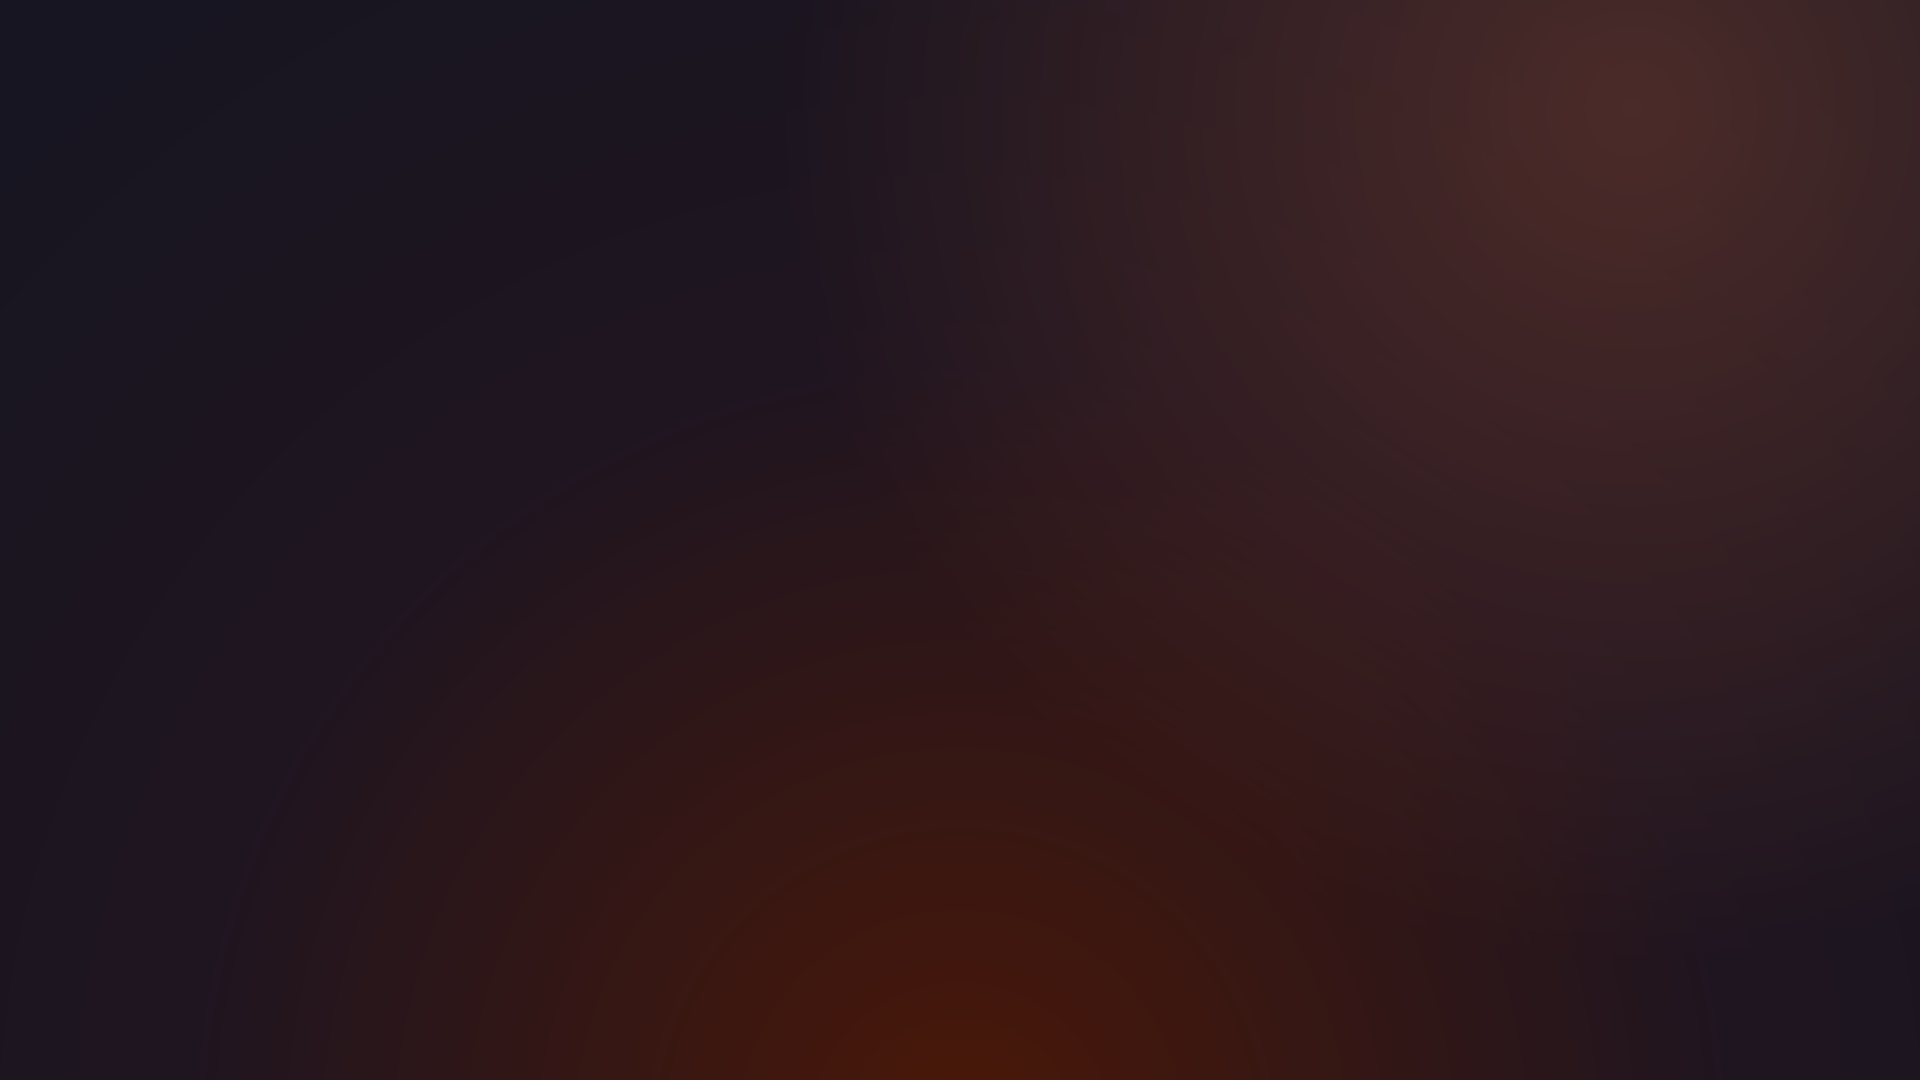
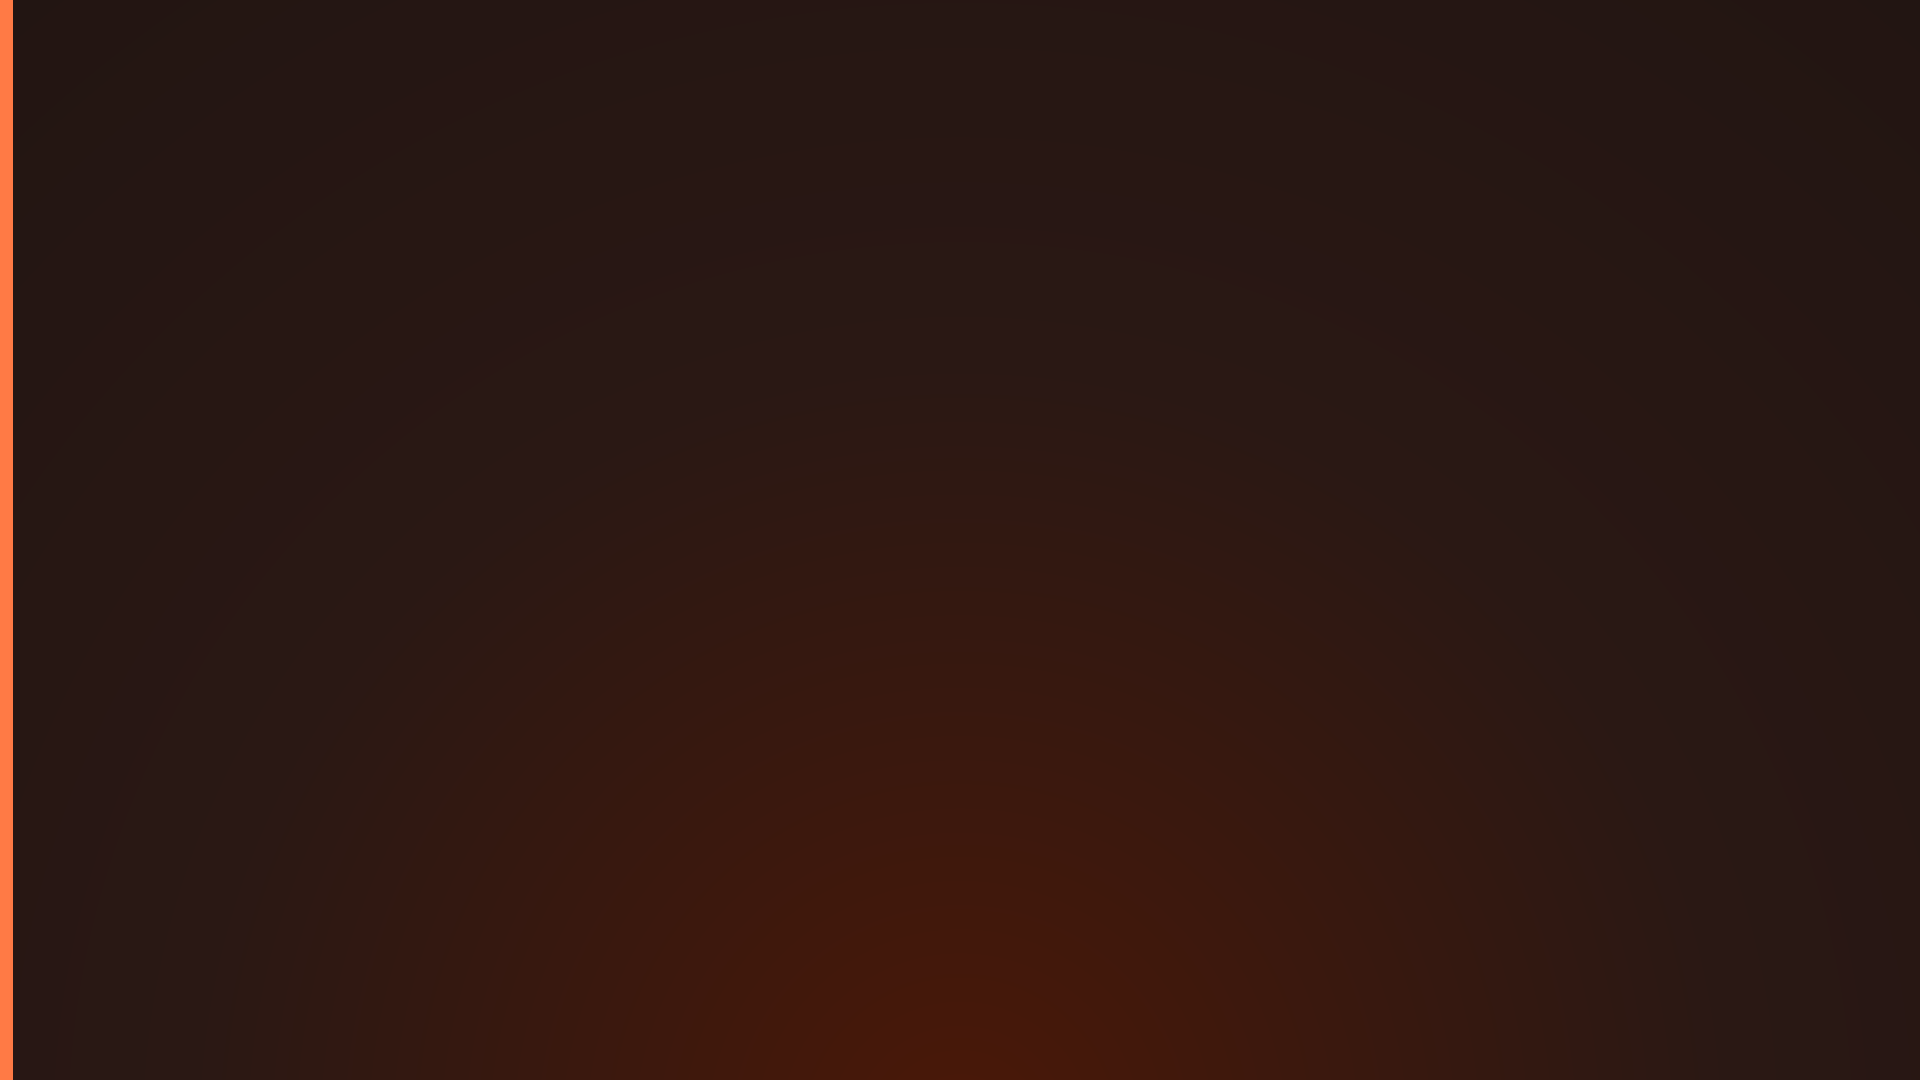
Update theme presets and enhance background generation for signage
- Modified `admin.php` to reflect updated theme color palettes, replacing "Beacon Bar" and "Harbor Glow" with "Ember" and "Forest".
- Refactored `slides_lib.php` to adjust theme presets, including changes to color values and the addition of new themes.
- Enhanced background generation functions to support the new theme structure, ensuring proper asset creation for updated themes.
- Updated audit and test scripts to validate the new theme configurations and ensure legacy themes are correctly handled.
- Added new image assets for the "Ember", "Forest", and "Frost" themes, improving visual consistency across signage displays.

Changed region(s): [[0.7188, 0.0, 1.0, 0.3361], [0.0, 0.0, 0.0312, 1.0]]

diff --git a/lib/slides_lib.php b/lib/slides_lib.php
@@ -654,26 +654,32 @@ function slide_theme_background_presets_all(): array
             'thumb' => 'celebration.png',
         ],
         'frost' => [
-            'label' => 'Frost (light)',
+            'label' => 'Frost',
             'light' => true,
             'title' => '#0c1422',
-            'subtitle' => '#b45309',
-            'body' => '#26344d',
-            'footer' => '#526580',
+            'subtitle' => '#2563eb',
+            'highlight' => '#2563eb',
+            'signage_beacon' => '#2563eb',
+            'body' => '#526580',
+            'footer' => '#6a7890',
             'bg' => ['type' => 'linear', 'angle' => 180, 'stops' => [
-                [0, '#edf2fb'], [1, '#c8d4e8'],
+                [0, '#edf2fb'], [1, '#d8e4f4'],
             ]],
             'thumb' => 'frost.png',
         ],
         'forest' => [
             'label' => 'Forest',
-            'title' => '#edf2fb',
-            'subtitle' => '#7dd3a8',
-            'body' => '#8aa0c0',
-            'footer' => '#8aa0c0',
+            'title' => '#e8f5ec',
+            'subtitle' => '#6ee7a8',
+            'highlight' => '#6ee7a8',
+            'signage_page' => '#0f1a14',
+            'signage_beacon' => '#6ee7a8',
+            'body' => '#8aab96',
+            'footer' => '#6a8a76',
             'bg' => ['type' => 'linear', 'angle' => 160, 'stops' => [
-                [0, '#0f1f18'], [0.5, '#0c1422'], [1, '#141f33'],
+                [0, '#0f1f18'], [0.5, '#142820'], [1, '#0f1a14'],
             ]],
+            'accent' => ['type' => 'glow', 'color' => '#6ee7a8', 'opacity' => 0.14],
             'thumb' => 'forest.png',
         ],
         'sky_glow' => [
@@ -778,14 +784,17 @@ function slide_theme_background_presets_all(): array
         ],
         'ember' => [
             'label' => 'Ember',
-            'title' => '#edf2fb',
+            'title' => '#f5ebe4',
             'subtitle' => '#ff7a45',
-            'body' => '#c8a090',
-            'footer' => '#8aa0c0',
+            'highlight' => '#ff7a45',
+            'signage_page' => '#1a1210',
+            'signage_beacon' => '#ff7a45',
+            'body' => '#b8a090',
+            'footer' => '#8a7870',
             'bg' => ['type' => 'radial', 'cx' => 0.5, 'cy' => 1.05, 'r' => 1.15, 'stops' => [
-                [0, '#4a1808'], [0.35, '#1f1520'], [1, '#0c1422'],
+                [0, '#4a1808'], [0.35, '#2a1814'], [1, '#1a1210'],
             ]],
-            'accent' => ['type' => 'glow', 'color' => '#ff7a45', 'opacity' => 0.22],
+            'accent' => ['type' => 'bar', 'color' => '#ff7a45', 'width' => 12],
             'thumb' => 'ember.png',
         ],
     ];
@@ -795,11 +804,11 @@ function slide_theme_background_presets_all(): array
 function slide_curated_theme_keys(): array
 {
     return [
-        'beacon_bar',
+        'ember',
+        'forest',
+        'frost',
         'gvsu_lakers',
-        'harbor_glow',
         'lake_night',
-        'slate',
     ];
 }
 
@@ -1460,12 +1469,50 @@ function slide_background_ensure_assets(): void
         if (is_file($path)) {
             continue;
         }
-        $im = slide_background_gd_image($preset);
-        if (!$im) {
+        slide_background_write_png($preset, $path);
+    }
+}
+
+/** Regenerate slide_backgrounds/*.png for the given theme keys (or all curated). */
+function slide_background_regenerate_themes(?array $keys = null): int
+{
+    if (!function_exists('imagepng')) {
+        return 0;
+    }
+    $dir = slide_backgrounds_dir();
+    if (!is_dir($dir) && !@mkdir($dir, 0775, true)) {
+        return 0;
+    }
+    $all = slide_theme_background_presets_all();
+    if ($keys === null) {
+        $keys = slide_curated_theme_keys();
+    }
+    $written = 0;
+    foreach ($keys as $id) {
+        $id = strtolower(preg_replace('/[^a-z0-9_]/', '', (string)$id) ?? '');
+        if ($id === '' || !isset($all[$id]) || !is_array($all[$id])) {
             continue;
         }
-        imagepng($im, $path, 6);
+        $preset = $all[$id];
+        $name = $preset['thumb'] ?? ($id . '.png');
+        if (slide_background_write_png($preset, $dir . '/' . $name)) {
+            $written++;
+        }
     }
+
+    return $written;
+}
+
+function slide_background_write_png(array $preset, string $path): bool
+{
+    $im = slide_background_gd_image($preset);
+    if (!$im) {
+        return false;
+    }
+    $ok = imagepng($im, $path, 6);
+    imagedestroy($im);
+
+    return $ok;
 }
 
 function slides_timezone(): string

diff --git a/scripts/test-signage-theme.php b/scripts/test-signage-theme.php
@@ -11,7 +11,7 @@ if (count($curated) !== 5) {
     fwrite(STDERR, "FAIL: expected 5 curated themes, got " . count($curated) . "\n");
     $fail++;
 }
-if ($curated !== ['beacon_bar', 'gvsu_lakers', 'harbor_glow', 'lake_night', 'slate']) {
+if ($curated !== ['ember', 'forest', 'frost', 'gvsu_lakers', 'lake_night']) {
     fwrite(STDERR, "FAIL: curated themes should be alphabetical by label\n");
     $fail++;
 }
@@ -20,26 +20,35 @@ if ($presets === [] || !isset($presets['lake_night']) || count($presets) !== 5) 
     fwrite(STDERR, "FAIL: signage_theme_presets should expose exactly 5 curated schemes\n");
     $fail++;
 }
-if (isset($presets['frost'])) {
-    fwrite(STDERR, "FAIL: frost should not be in curated presets\n");
+if (!isset($presets['frost'], $presets['ember'], $presets['forest'])) {
+    fwrite(STDERR, "FAIL: curated presets should include ember, forest, frost\n");
     $fail++;
 }
 $all = signage_theme_presets_all();
-if (!isset($all['forest'])) {
-    fwrite(STDERR, "FAIL: legacy forest preset should still resolve for old slides\n");
-    $fail++;
+foreach (['beacon_bar', 'harbor_glow', 'slate'] as $legacy) {
+    if (!isset($all[$legacy])) {
+        fwrite(STDERR, "FAIL: retired curated theme {$legacy} should remain in legacy catalog\n");
+        $fail++;
+    }
 }
-if (!isset($all['frost'])) {
-    fwrite(STDERR, "FAIL: frost should remain in legacy catalog for old slides/displays\n");
-    $fail++;
-}
-$css = signage_theme_css_block('harbor_glow');
+$css = signage_theme_css_block('ember');
 if ($css === '' || !str_contains($css, '--beacon:')) {
-    fwrite(STDERR, "FAIL: css block empty\n");
+    fwrite(STDERR, "FAIL: ember css block empty\n");
     $fail++;
 }
-if (signage_theme_preset('forest') === null) {
-    fwrite(STDERR, "FAIL: forest legacy preset\n");
+$emberPage = signage_theme_preset('ember')['lake-night'] ?? '';
+if (stripos($emberPage, '1a1210') === false) {
+    fwrite(STDERR, "FAIL: ember should use warm page background, not lake navy\n");
+    $fail++;
+}
+$forestPage = signage_theme_preset('forest')['lake-night'] ?? '';
+if (stripos($forestPage, '0f1a14') === false) {
+    fwrite(STDERR, "FAIL: forest should use green page background\n");
+    $fail++;
+}
+$frost = signage_theme_preset('frost');
+if ($frost === null || ($frost['light'] ?? '0') !== '1') {
+    fwrite(STDERR, "FAIL: frost should be a light theme\n");
     $fail++;
 }
 $gvsu = signage_theme_preset('gvsu_lakers');

diff --git a/scripts/audit-signage-themes.php b/scripts/audit-signage-themes.php
@@ -15,12 +15,16 @@ if (count($presets) !== 5) {
     fwrite(STDERR, 'FAIL: expected 5 curated signage themes, got ' . count($presets) . "\n");
     $fail++;
 }
-if (isset($presets['frost'])) {
-    fwrite(STDERR, "FAIL: frost must not be a curated theme\n");
+if (!isset($presets['ember'], $presets['forest'], $presets['frost'])) {
+    fwrite(STDERR, "FAIL: curated presets must include ember, forest, frost\n");
+    $fail++;
+}
+if (isset($presets['beacon_bar']) || isset($presets['harbor_glow']) || isset($presets['slate'])) {
+    fwrite(STDERR, "FAIL: retired themes must not appear in curated picker\n");
     $fail++;
 }
 $requiredTokens = ['--tile-bg', '--data-accent', '--inset-muted', '--map-accent'];
-foreach (['lake_night', 'gvsu_lakers', 'slate'] as $key) {
+foreach (['lake_night', 'gvsu_lakers', 'ember', 'forest', 'frost'] as $key) {
     $css = signage_theme_css_block($key);
     foreach ($requiredTokens as $tok) {
         if (!str_contains($css, $tok . ':')) {

diff --git a/scripts/regenerate-theme-thumbs.php b/scripts/regenerate-theme-thumbs.php
@@ -1,0 +1,25 @@
+<?php
+/**
+ * Regenerate slide_backgrounds/*.png for curated wall themes.
+ *
+ * Usage:
+ *   php scripts/regenerate-theme-thumbs.php              # ember, forest, frost
+ *   php scripts/regenerate-theme-thumbs.php ember frost  # specific keys
+ *   php scripts/regenerate-theme-thumbs.php --all        # all five curated
+ */
+require_once dirname(__DIR__) . '/config.php';
+require_once dirname(__DIR__) . '/lib/slides_lib.php';
+
+if (!function_exists('imagepng')) {
+    fwrite(STDERR, "php-gd required (imagepng missing)\n");
+    exit(1);
+}
+
+$keys = array_slice($argv, 1);
+if ($keys === [] || (count($keys) === 1 && $keys[0] === '--all')) {
+    $keys = $keys === [] ? ['ember', 'forest', 'frost'] : null;
+}
+
+$written = slide_background_regenerate_themes($keys);
+echo 'Wrote ' . $written . " theme PNG(s) to " . slide_backgrounds_dir() . "\n";
+exit($written > 0 ? 0 : 1);

diff --git a/admin.php b/admin.php
@@ -7221,7 +7221,7 @@ window.OPERATOR_MULTI_SCREEN = <?= json_encode(users_operator_multi_screen_enabl
                     </div>
                     <div class="bg-section">
                       <div class="bg-section-title">Theme colors</div>
-                      <p class="field-hint" style="margin:0 0 8px">Five wall palettes (A–Z): Beacon Bar, GVSU, Harbor Glow, Lake Night (default), Slate. Photo scenes below are separate.</p>
+                      <p class="field-hint" style="margin:0 0 8px">Five wall palettes (A–Z): Ember, Forest, Frost, GVSU, Lake Night (default). Photo scenes below are separate.</p>
                       <div class="bg-pick" id="bgPickTheme">
                         <?php foreach (slide_theme_background_presets() as $id => $preset):
                           $bgUrl = slide_background_url($id); ?>
